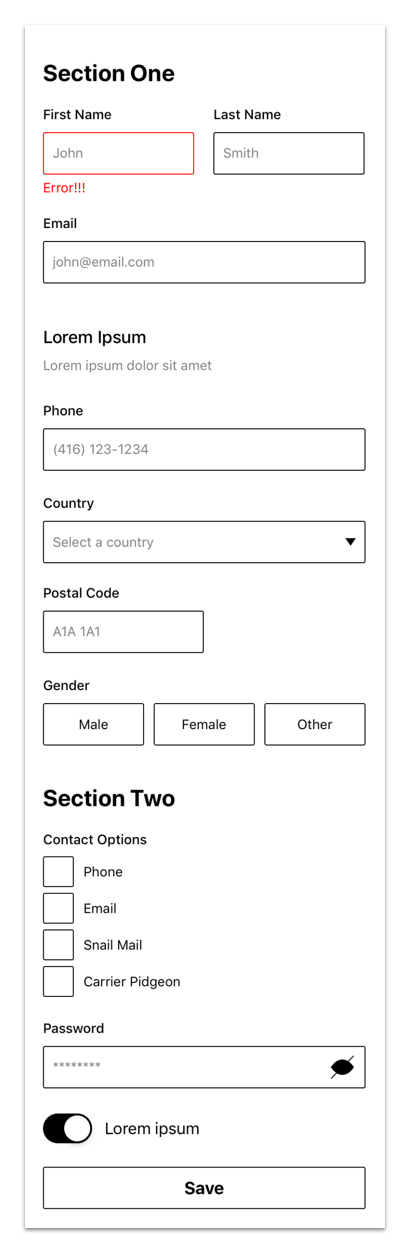
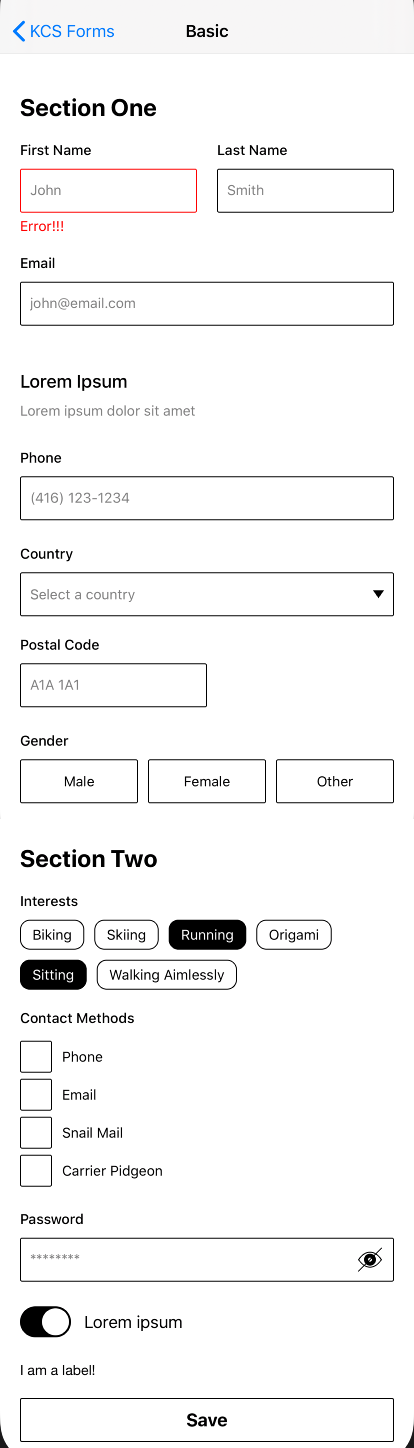
Updated README

diff --git a/README.md b/README.md
@@ -133,6 +133,10 @@ func formViewController(_ controller: FormViewController, updatedText: String?, 
 
 ![alt text](https://github.com/KineticCafe/KCSForm-iOS/raw/master/Component-Images/button-options.png "Button Options")
 
+### Tags
+
+![alt text](https://github.com/KineticCafe/KCSForm-iOS/raw/master/Component-Images/tags.png "Tags")
+
 ### Checkbox Options
 
 ![alt text](https://github.com/KineticCafe/KCSForm-iOS/raw/master/Component-Images/checkbox-options.png "Checkbox Options")
